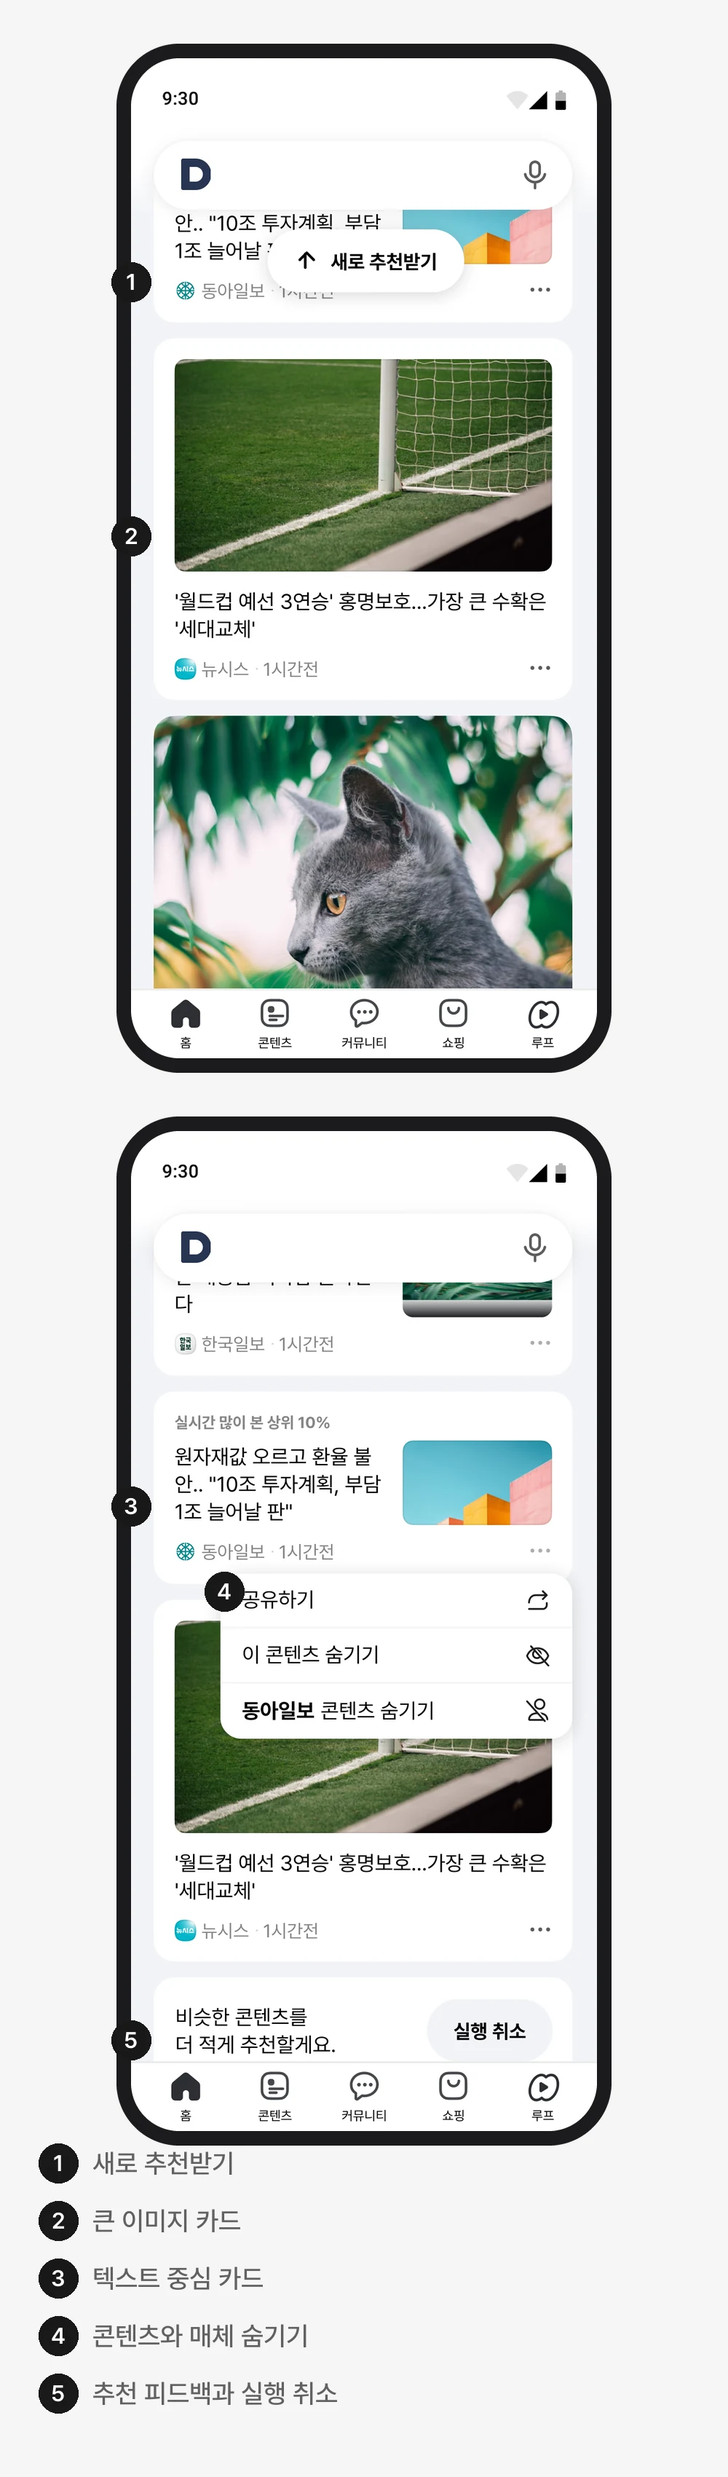
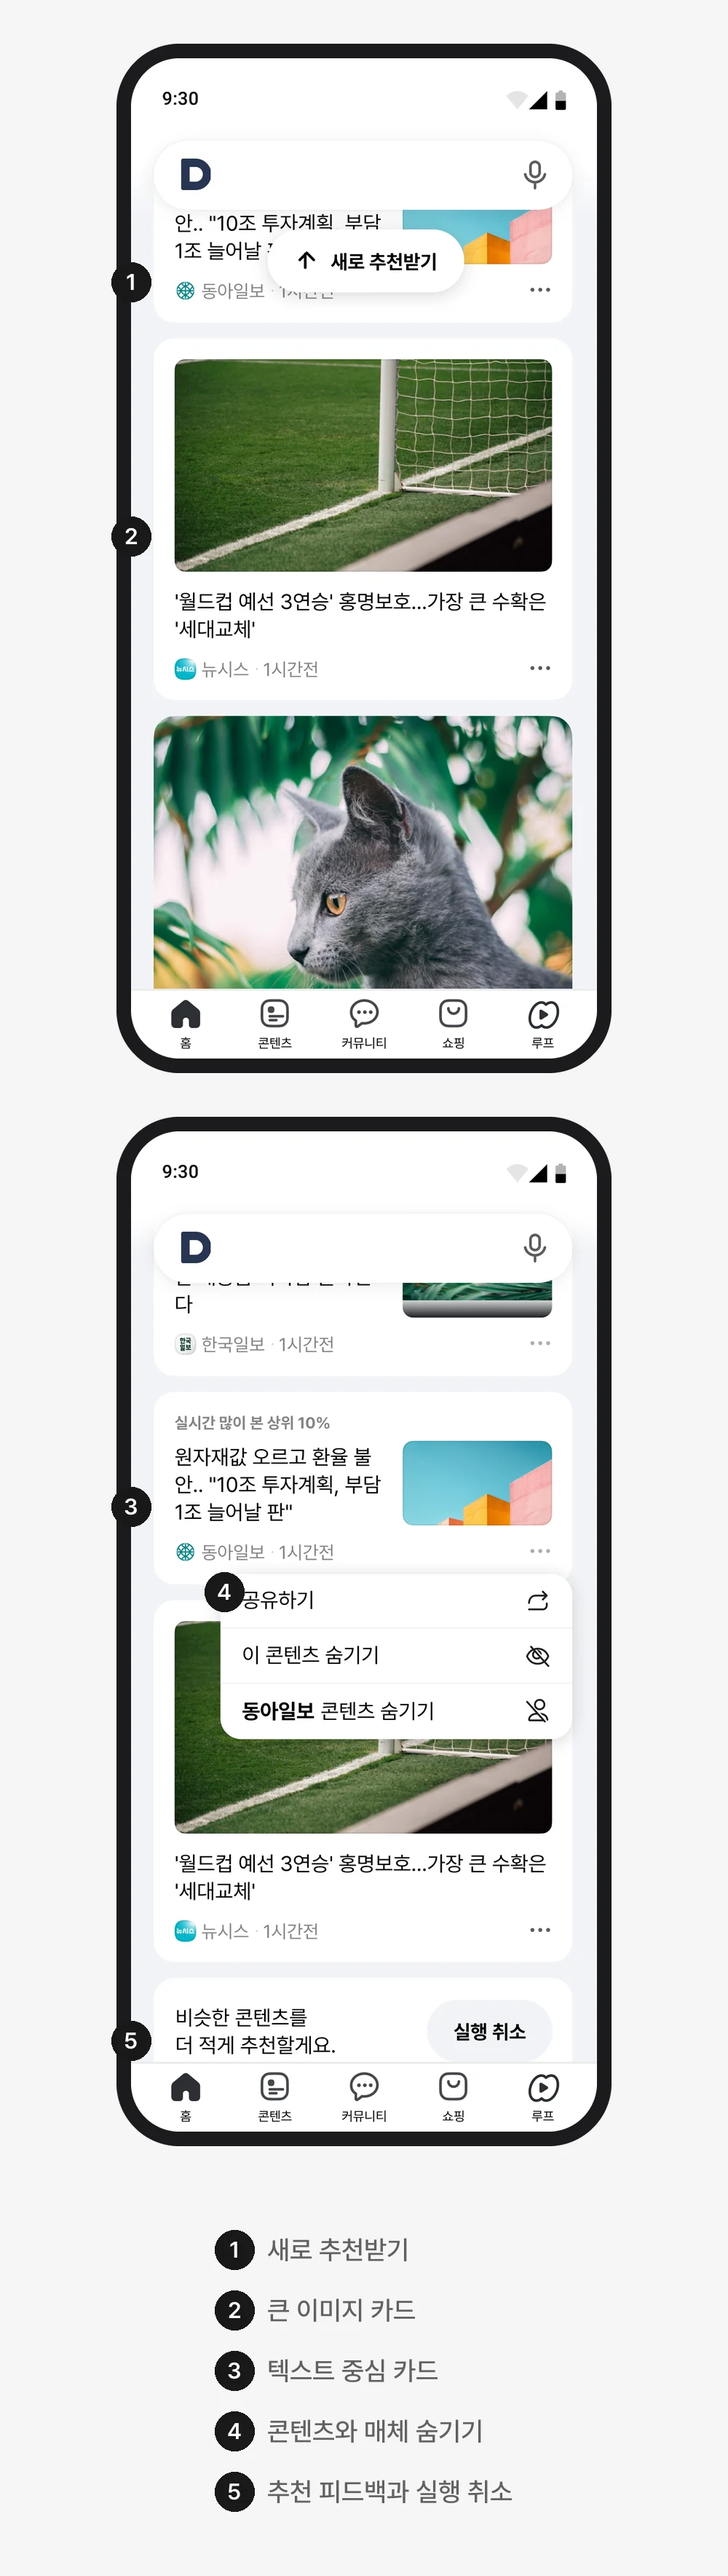
다음앱 피드 범례를 기기와 띄운 2단(모바일 1단 중앙)으로 정리

diff --git a/daum-app.html b/daum-app.html
@@ -76,7 +76,7 @@
     </section>
     <section class="cs-block">
       <figure class="cs-fig">
-        <picture><source media="(max-width:820px)" srcset="img/daumapp/feed-m.webp?v=202610181800" width="1000" height="3409"><img src="img/daumapp/feed.webp?v=202610181800" width="2240" height="1435" alt="피드 화면 두 장과 번호. 1 새로 추천받기, 2 큰 이미지 카드, 3 텍스트 중심 카드, 4 콘텐츠와 매체 숨기기, 5 추천 피드백과 실행 취소" loading="lazy"></picture>
+        <picture><source media="(max-width:820px)" srcset="img/daumapp/feed-m.webp?v=202610190300" width="1000" height="3536"><img src="img/daumapp/feed.webp?v=202610190300" width="2240" height="1603" alt="피드 화면 두 장과 번호. 1 새로 추천받기, 2 큰 이미지 카드, 3 텍스트 중심 카드, 4 콘텐츠와 매체 숨기기, 5 추천 피드백과 실행 취소" loading="lazy"></picture>
       </figure>
       <div class="cs-sec cs-col">
         <p class="cs-label">피드 설계</p>
